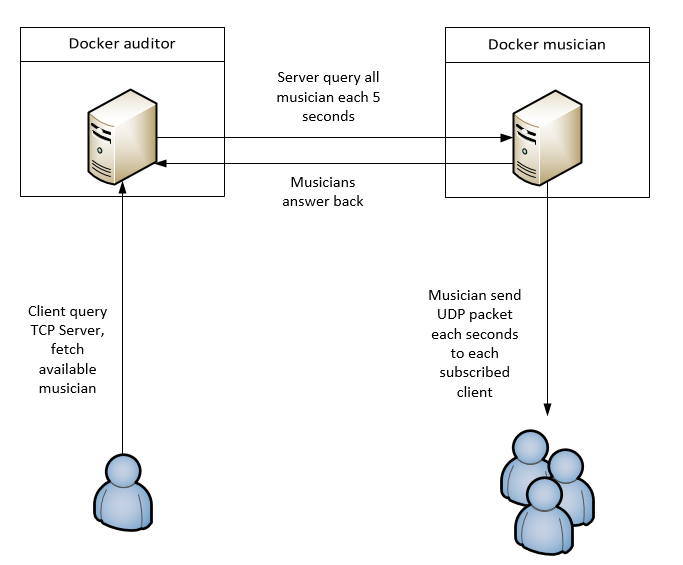
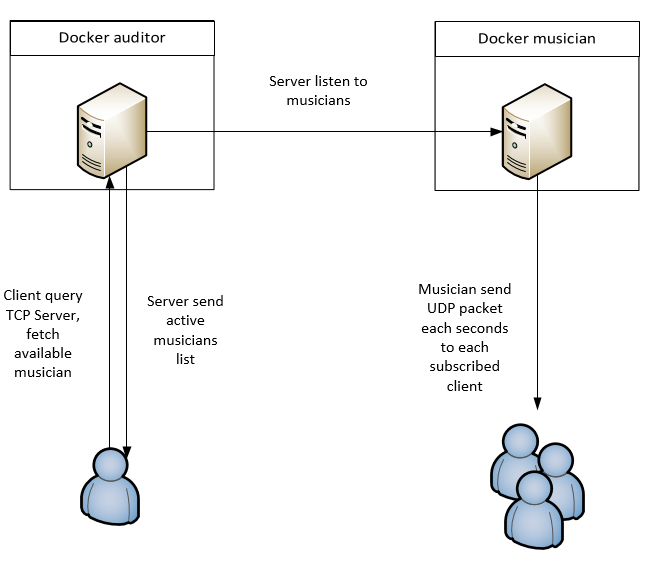
Finished README + updated diagramm

diff --git a/README.md b/README.md
@@ -121,7 +121,7 @@ When you connect to the TCP interface of the **Auditor**, you should receive an 
 | #  | Topic |
 | ---  | --- |
 |Question | In a JavaScript program, if we have an object, how can we **serialize it in JSON**? |
-| | *Enter your response here...*  |
+| | Using JSON.stringify()  |
 |Question | What is **npm**?  |
 | | It's a package maanager for Node.js  |
 |Question | What is the `npm install` command and what is the purpose of the `--save` flag?  |
@@ -129,9 +129,9 @@ When you connect to the TCP interface of the **Auditor**, you should receive an 
 |Question | How can we use the `https://www.npmjs.com/` web site?  |
 | | *Enter your response here...*  |
 |Question | In JavaScript, how can we **generate a UUID** compliant with RFC4122? |
-| | By uisng UUID package of Node.js  |
+| | By using UUID package of Node.js  |
 |Question | In Node.js, how can we execute a function on a **periodic** basis? |
-| | *Enter your response here...*  |
+| | Using setInterval() method  |
 |Question | In Node.js, how can we **emit UDP datagrams**? |
 | | Create a UDP socket first (dgram.createSocket()) and then send datagrams  |
 |Question | In Node.js, how can we **access the command line arguments**? |
@@ -143,17 +143,17 @@ When you connect to the TCP interface of the **Auditor**, you should receive an 
 | #  | Topic |
 | ---  | --- |
 |Question | How do we **define and build our own Docker image**?|
-| | *Enter your response here...*  |
+| | Create the Dockerfile and then execute "docker build" command |
 |Question | How can we use the `ENTRYPOINT` statement in our Dockerfile?  |
-| | *Enter your response here...*  |
+| | To pass argument to our application (musician)  |
 |Question | After building our Docker image, how do we use it to **run containers**?  |
-| | *Enter your response here...*  |
+| | By executing "docker run" command  |
 |Question | How do we get the list of all **running containers**?  |
-| | *Enter your response here...*  |
+| | docker ps  |
 |Question | How do we **stop/kill** one running container?  |
-| | *Enter your response here...*  |
+| | docker rm  |
 |Question | How can we check that our running containers are effectively sending UDP datagrams?  |
-| | *Enter your response here...*  |
+| | By sniffing with Wireshark or Tcpdump  |
 
 
 ## Task 4: implement an "auditor" Node.js application
@@ -161,15 +161,15 @@ When you connect to the TCP interface of the **Auditor**, you should receive an 
 | #  | Topic |
 | ---  | ---  |
 |Question | With Node.js, how can we listen for UDP datagrams in a multicast group? |
-| | *Enter your response here...*  |
+| | By using the listen() method on a socket object  |
 |Question | How can we use the `Map` built-in object introduced in ECMAScript 6 to implement a **dictionary**?  |
-| | *Enter your response here...* |
+| | Create the map with "new Map(Array)" |
 |Question | How can we use the `Moment.js` npm module to help us with **date manipulations** and formatting?  |
-| | *Enter your response here...* |
+| | To make diffference between two dates easier (using diff()) |
 |Question | When and how do we **get rid of inactive players**?  |
-| | *Enter your response here...* |
+| | When the difference between the actual moment and the moment in the array is greater than 5 seconds |
 |Question | How do I implement a **simple TCP server** in Node.js?  |
-| | *Enter your response here...* |
+| | Create a TCP Socket using "net" package and then listen on it and react to event like "data" or stuff like that |
 
 
 ## Task 5: package the "auditor" app in a Docker image
@@ -177,7 +177,7 @@ When you connect to the TCP interface of the **Auditor**, you should receive an 
 | #  | Topic |
 | ---  | --- |
 |Question | How do we validate that the whole system works, once we have built our Docker image? |
-| | *Enter your response here...* |
+| | By executing the "validate.sh" script |
 
 
 ## Constraints
